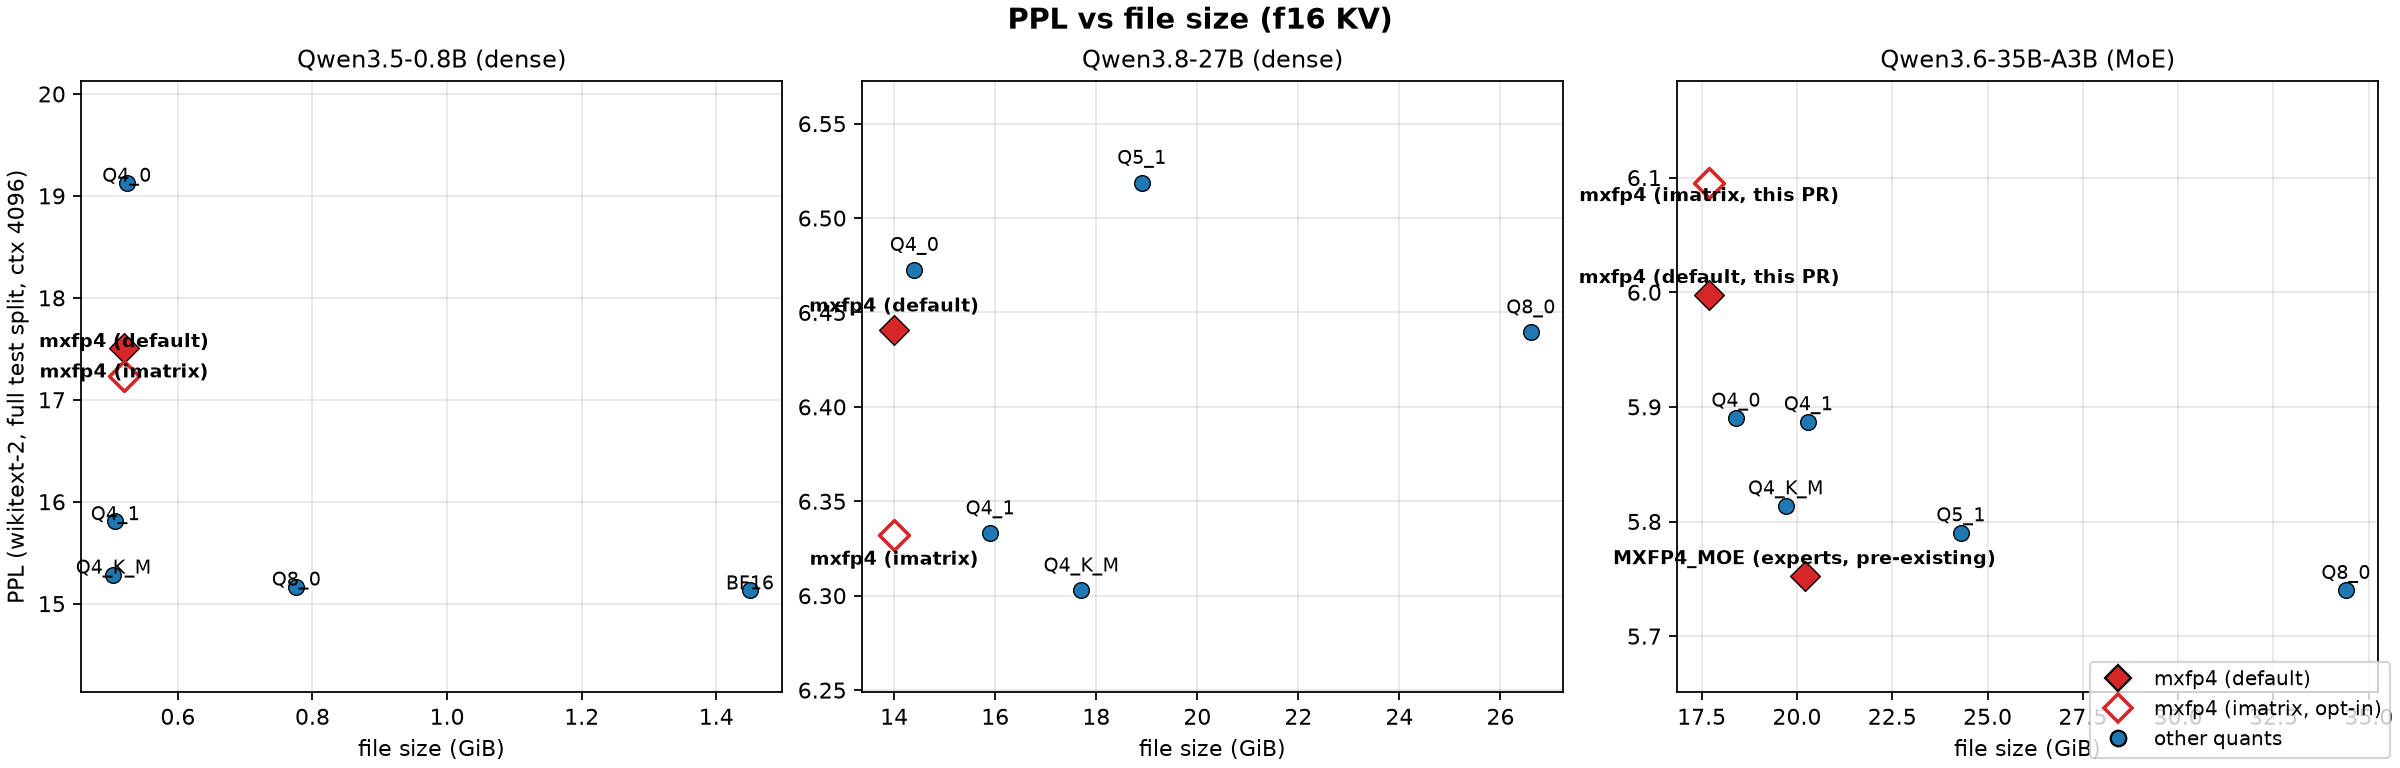
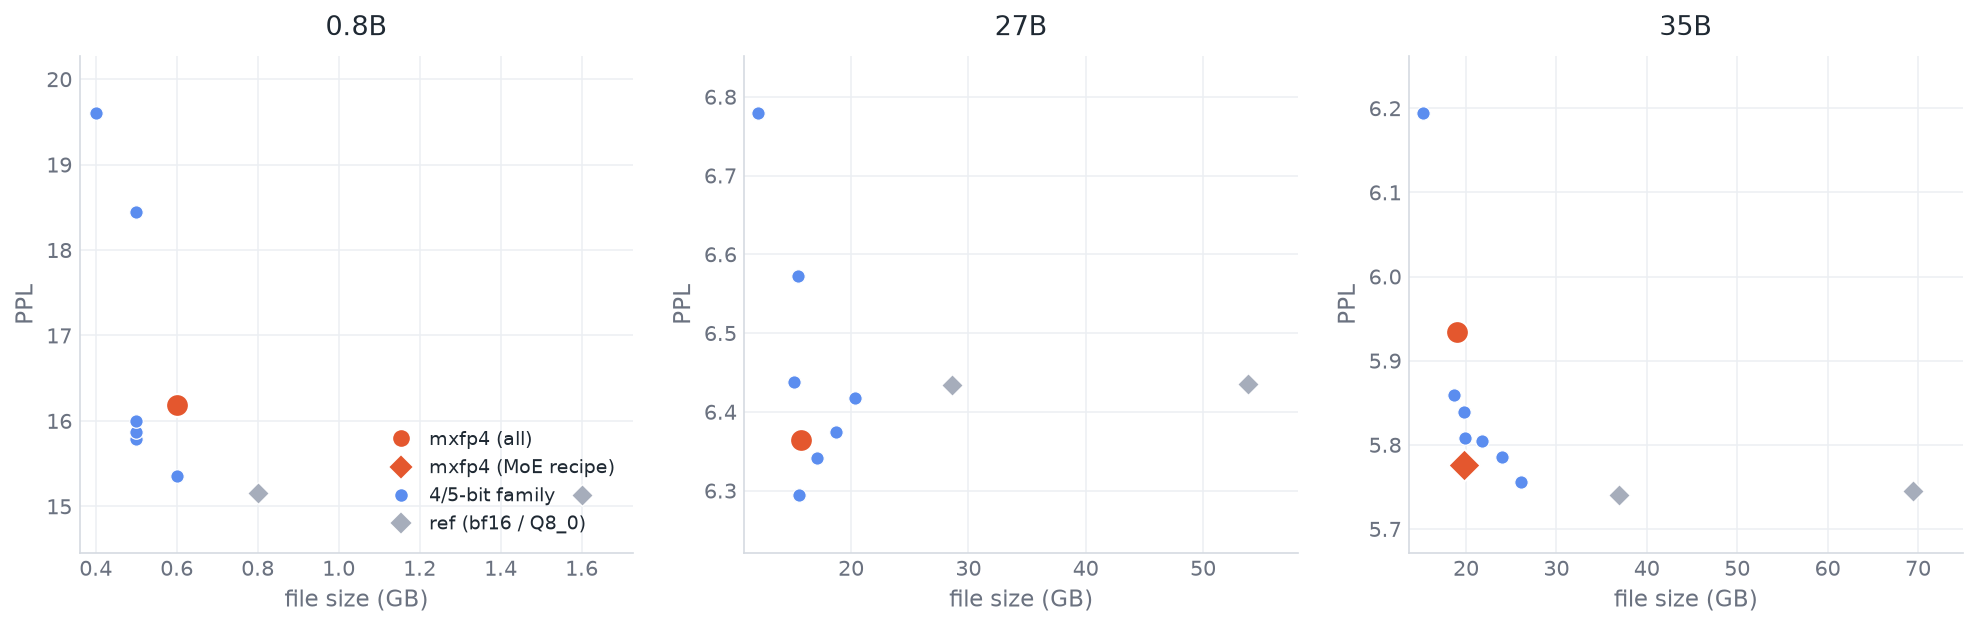
Replace PR charts with fresh-run figures; add generator, drop stale graphics
- add ppl-vs-size, kv-cache, kl-top-p (fresh full-imatrix run)
- regenerate ppl-vs-size
- add charts.py generator
- remove 18 stale figures (scale-selection, cross-quant-speed, kv-*, ctx-sweep, kld-*)

diff --git a/charts.py b/charts.py
@@ -1,0 +1,290 @@
+#!/usr/bin/env python3
+"""
+mxfp4 PR charts - single generator for all PR figures.
+
+One design language, shared by every chart:
+  - shared PALETTE (mxfp4 = accent, family = blue, refs = gray)
+  - shared figure/axis styling (new_figure / style_axes / save)
+  - minimal in-image text: small labels only; prose lives in the PR body
+Data is the fresh full-imatrix, all-chunks run (see mxfp4-imatrix-accuracy.md).
+"""
+import matplotlib
+matplotlib.use("Agg")
+import matplotlib.pyplot as plt
+from matplotlib.lines import Line2D
+import numpy as np
+import os
+
+OUT = os.path.dirname(os.path.abspath(__file__))
+
+# ------------------------------------------------------------------ design
+PALETTE = {
+    "accent":  "#E4572E",   # mxfp4 (the subject)
+    "family":  "#5B8DEF",   # 4/5-bit family
+    "ref":     "#A6ADBB",   # bf16 / Q8_0 references
+    "text":    "#1F2933",
+    "muted":   "#6B7280",
+    "grid":    "#ECEFF3",
+    "spine":   "#D5DAE1",
+    "bg":      "#FFFFFF",
+}
+FONT = {"family": "DejaVu Sans", "size": 12}
+
+plt.rcParams.update({
+    "font.family": FONT["family"],
+    "text.color": PALETTE["text"],
+    "axes.edgecolor": PALETTE["spine"],
+    "axes.labelcolor": PALETTE["text"],
+    "xtick.color": PALETTE["muted"],
+    "ytick.color": PALETTE["muted"],
+    "axes.grid": True,
+    "grid.color": PALETTE["grid"],
+    "grid.linewidth": 1.0,
+    "figure.facecolor": PALETTE["bg"],
+    "axes.facecolor": PALETTE["bg"],
+    "savefig.facecolor": PALETTE["bg"],
+    "svg.fonttype": "none",
+})
+
+
+def new_figure(nrows=1, ncols=1, w=6.0, h=4.4, sharey=False):
+    fig, axes = plt.subplots(nrows, ncols, figsize=(w * ncols, h * nrows), squeeze=False)
+    return fig, axes.flatten()
+
+
+def style_axes(ax, title=None, xlabel=None, ylabel=None, xlog=False):
+    for s in ("top", "right"):
+        ax.spines[s].set_visible(False)
+    ax.spines["left"].set_color(PALETTE["spine"])
+    ax.spines["bottom"].set_color(PALETTE["spine"])
+    ax.tick_params(length=0)
+    ax.grid(axis="both", linestyle="-", linewidth=0.8, alpha=0.9)
+    ax.set_axisbelow(True)
+    if title:
+        ax.set_title(title, fontsize=13, color=PALETTE["text"], pad=10)
+    if xlabel:
+        ax.set_xlabel(xlabel, fontsize=11, color=PALETTE["muted"])
+    if ylabel:
+        ax.set_ylabel(ylabel, fontsize=11, color=PALETTE["muted"])
+    if xlog:
+        ax.set_xscale("log")
+    return ax
+
+
+def legend_items(ax, items, **kw):
+    ax.legend(handles=items, **kw)
+
+
+def save(fig, name):
+    path = os.path.join(OUT, name)
+    fig.savefig(path, dpi=150, bbox_inches="tight")
+    plt.close(fig)
+    print("wrote", path)
+
+
+# ------------------------------------------------------------------ data
+# fresh full-imatrix, all-chunks. (type, size_GB, imx_ppl, no_imx_ppl or None, is_ref)
+PPL = {
+    "0.8B": [
+        ("bf16", 1.6, 15.129, None, True),
+        ("Q8_0", 0.8, 15.162, None, True),
+        ("q5_1", 0.6, 15.350, 15.204, False),
+        ("q4_1", 0.5, 15.786, 15.811, False),
+        ("iq4xs", 0.5, 15.870, 15.962, False),
+        ("q4ks", 0.5, 15.999, 15.811, False),
+        ("mxfp4", 0.6, 16.181, 17.489, False),
+        ("q4_0", 0.5, 18.444, 19.107, False),
+        ("q3ks", 0.4, 19.601, 21.516, False),
+    ],
+    "27B": [
+        ("q4ks", 15.6, 6.294, 6.326, False),
+        ("q4_1", 17.1, 6.342, 6.320, False),
+        ("mxfp4", 15.7, 6.364, 6.441, False),
+        ("q5ks", 18.7, 6.375, 6.495, False),
+        ("q5_1", 20.3, 6.417, 6.505, False),
+        ("Q8_0", 28.6, 6.434, None, True),
+        ("bf16", 53.8, 6.435, None, True),
+        ("iq4xs", 15.1, 6.438, 6.413, False),
+        ("q4_0", 15.5, 6.572, 6.475, False),
+        ("q3ks", 12.1, 6.779, 7.375, False),
+    ],
+    "35B": [
+        ("Q8_0", 36.9, 5.740, None, True),
+        ("bf16", 69.4, 5.745, None, True),
+        ("q5_1", 26.1, 5.756, 5.790, False),
+        ("q5ks", 24.0, 5.785, 5.834, False),
+        ("q4_1", 21.8, 5.804, 5.887, False),
+        ("q4ks", 19.9, 5.808, 5.825, False),
+        ("q4_0", 19.8, 5.839, 5.886, False),
+        ("iq4xs", 18.7, 5.859, 5.849, False),
+        ("mxfp4", 19.0, 5.934, 5.999, False),
+        ("mxfp4-moe", 19.8, 5.776, None, False),
+        ("q3ks", 15.2, 6.194, 6.525, False),
+    ],
+}
+
+
+def scatter_quant_points(ax, rows):
+    """Plot one model's quants: family (blue), mxfp4 (accent, larger), refs (gray, diamond)."""
+    fam_x, fam_y = [], []
+    acc_x, acc_y = [], []
+    moe_x, moe_y = [], []
+    ref_x, ref_y = [], []
+    for (name, size, imx, noimx, is_ref) in rows:
+        if is_ref:
+            ref_x.append(size); ref_y.append(imx)
+        elif name == "mxfp4":
+            acc_x.append(size); acc_y.append(imx)
+        elif name == "mxfp4-moe":
+            moe_x.append(size); moe_y.append(imx)
+        else:
+            fam_x.append(size); fam_y.append(imx)
+    ax.scatter(fam_x, fam_y, s=42, c=PALETTE["family"], zorder=3, edgecolors="white", linewidths=0.6)
+    ax.scatter(ref_x, ref_y, s=54, marker="D", c=PALETTE["ref"], zorder=3, edgecolors="white", linewidths=0.6)
+    ax.scatter(acc_x, acc_y, s=120, c=PALETTE["accent"], zorder=5, edgecolors="white", linewidths=1.0)
+    ax.scatter(moe_x, moe_y, s=120, marker="D", c=PALETTE["accent"], zorder=5, edgecolors="white", linewidths=1.0)
+    return [
+        Line2D([0], [0], marker="o", ls="", ms=9, mec="white", mfc=PALETTE["accent"], label="mxfp4 (all)"),
+        Line2D([0], [0], marker="D", ls="", ms=9, mec="white", mfc=PALETTE["accent"], label="mxfp4 (MoE recipe)"),
+        Line2D([0], [0], marker="o", ls="", ms=7, mec="white", mfc=PALETTE["family"], label="4/5-bit family"),
+        Line2D([0], [0], marker="D", ls="", ms=8, mec="white", mfc=PALETTE["ref"], label="ref (bf16 / Q8_0)"),
+    ]
+
+
+def ppl_vs_size():
+    fig, axgrid = new_figure(1, 3, w=5.4, h=4.3)
+    handles = None
+    for ax, (model, rows) in zip(axgrid, PPL.items()):
+        style_axes(ax, title=model, xlabel="file size (GB)", ylabel="PPL")
+        h = scatter_quant_points(ax, rows)
+        if handles is None:
+            handles = h
+        ax.set_xlim(min(r[1] for r in rows) * 0.9, max(r[1] for r in rows) * 1.08)
+        ymin, ymax = min(r[2] for r in rows), max(r[2] for r in rows)
+        pad = (ymax - ymin) * 0.15
+        ax.set_ylim(ymin - pad, ymax + pad)
+    legend_items(axgrid[0], handles, loc="lower right", frameon=False, fontsize=9,
+                             ncol=1, handlelength=1.4, borderaxespad=0.6)
+    save(fig, "ppl-vs-size.png")
+    return
+
+
+# ------------------------------------------------------------------ KV cache
+KV_TYPES = ["f16", "q4_0", "q4_1", "q5_1", "mxfp4"]
+KV = {
+    "0.8B": {"mem": {"f16": 1.14, "q4_0": 0.32, "q4_1": 0.36, "q5_1": 0.43, "mxfp4": 0.30},
+             "tg":  {"f16": 434.4, "q4_0": 411.2, "q4_1": 413.6, "q5_1": 414.7, "mxfp4": 412.9}},
+    "27B":  {"mem": {"f16": 6.10, "q4_0": 1.72, "q4_1": 1.91, "q5_1": 2.29, "mxfp4": 1.62},
+             "tg":  {"f16": 42.6, "q4_0": 42.1, "q4_1": 42.1, "q5_1": 42.1, "mxfp4": 42.2}},
+    "35B":  {"mem": {"f16": 1.91, "q4_0": 0.54, "q4_1": 0.60, "q5_1": 0.72, "mxfp4": 0.51},
+             "tg":  {"f16": 183.9, "q4_0": 178.7, "q4_1": 179.3, "q5_1": 179.1, "mxfp4": 179.1}},
+}
+
+def kv_color(t):
+    if t == "f16":
+        return PALETTE["ref"]
+    if t == "mxfp4":
+        return PALETTE["accent"]
+    return PALETTE["family"]
+
+def kv_cache():
+    fig, ax = new_figure(2, 3, w=5.0, h=3.5)
+    for col, (model, d) in enumerate(KV.items()):
+        axm = ax[col]
+        style_axes(axm, title=model, ylabel="KV mem (GiB @100k)" if col == 0 else None)
+        axm.bar(KV_TYPES, [d["mem"][t] for t in KV_TYPES], color=[kv_color(t) for t in KV_TYPES], width=0.72)
+        axt = ax[3 + col]
+        style_axes(axt, ylabel="decode (t/s)" if col == 0 else None)
+        axt.bar(KV_TYPES, [d["tg"][t] for t in KV_TYPES], color=[kv_color(t) for t in KV_TYPES], width=0.72)
+    save(fig, "kv-cache.png")
+
+# ------------------------------------------------------------------ KL + top-p
+# per quant: (imx_kld, imx_topp, plain_kld, plain_topp); q8 has no plain
+KL_ORDER = ["q8", "q5_1", "q5ks", "q4_1", "q4ks", "iq4xs", "mxfp4", "q4_0", "q3ks"]
+KL = {
+    "0.8B": {
+        "q8":    (0.001274, 98.029, None, None),
+        "q5_1":  (0.015941, 93.279, 0.025742, 91.611),
+        "q5ks":  (0.018677, 92.763, 0.026215, 91.246),
+        "q4_1":  (0.052838, 88.337, 0.093422, 84.593),
+        "q4ks":  (0.052137, 88.432, 0.076593, 86.340),
+        "iq4xs": (0.056000, 88.111, 0.069437, 86.883),
+        "mxfp4": (0.149358, 81.307, 0.187225, 78.825),
+        "q4_0":  (0.113817, 83.581, 0.143692, 81.412),
+        "q3ks":  (0.278512, 74.846, 0.376418, 71.496),
+    },
+    "27B": {
+        "q8":    (0.009147, 98.674, None, None),
+        "q5_1":  (0.025711, 96.304, 0.034100, 95.434),
+        "q5ks":  (0.026647, 96.077, 0.032669, 95.538),
+        "q4_1":  (0.044071, 94.225, 0.068571, 92.060),
+        "q4ks":  (0.046680, 93.995, 0.059856, 92.591),
+        "iq4xs": (0.039574, 94.317, 0.049913, 93.341),
+        "mxfp4": (0.089838, 90.217, 0.101166, 89.239),
+        "q4_0":  (0.058929, 92.702, 0.069682, 91.645),
+        "q3ks":  (0.114200, 87.891, 0.173826, 85.424),
+    },
+    "35B": {
+        "q8":    (0.005252, 97.400, None, None),
+        "q5_1":  (0.013733, 95.239, 0.020446, 94.306),
+        "q5ks":  (0.014901, 95.099, 0.021629, 94.104),
+        "q4_1":  (0.029135, 93.073, 0.052624, 90.574),
+        "q4ks":  (0.029115, 93.066, 0.043272, 91.421),
+        "iq4xs": (0.029952, 92.986, 0.038388, 91.981),
+        "mxfp4": (0.068176, 89.343, 0.087843, 87.920),
+        "q4_0":  (0.046439, 91.255, 0.055915, 90.307),
+        "q3ks":  (0.106026, 86.843, 0.151525, 84.141),
+    },
+}
+
+def _kl_color(q):
+    if q == "q8":
+        return PALETTE["ref"]
+    if q == "mxfp4":
+        return PALETTE["accent"]
+    return PALETTE["family"]
+
+def _plot_kl_panel(ax, d, key):
+    xs = list(range(len(KL_ORDER)))
+    imx_x, imx_y = [], []
+    pl_x, pl_y = [], []
+    cols = []
+    for i, q in enumerate(KL_ORDER):
+        ik, it, pk, pt = d[q]
+        yv = ik if key == "kld" else it
+        imx_x.append(i - 0.18); imx_y.append(yv); cols.append(_kl_color(q))
+        if pk is not None:
+            pl_x.append(i + 0.18); pl_y.append(pk if key == "kld" else pt)
+    ax.scatter(imx_x, imx_y, s=64, c=cols, zorder=5, edgecolors="white", linewidths=0.8)
+    if pl_x:
+        ax.scatter(pl_x, pl_y, s=64, facecolors="none", edgecolors=cols[:len(pl_x)], linewidths=1.4, zorder=4)
+    ax.set_xticks(xs); ax.set_xticklabels(KL_ORDER, fontsize=8)
+    ax.set_xlim(-0.6, len(KL_ORDER) - 0.4)
+    ys = imx_y + pl_y
+    ymin, ymax = min(ys), max(ys)
+    pad = (ymax - ymin) * 0.18
+    ax.set_ylim(ymin - pad, ymax + pad)
+
+def kl_top_p():
+    fig, ax = new_figure(2, 3, w=5.0, h=3.6)
+    for col, (model, d) in enumerate(KL.items()):
+        style_axes(ax[col], title=model, ylabel="Mean KLD (lower is better)")
+        _plot_kl_panel(ax[col], d, "kld")
+        style_axes(ax[3 + col], ylabel="Same top-p % (higher is better)")
+        _plot_kl_panel(ax[3 + col], d, "topp")
+    handles = [Line2D([0], [0], marker="o", ls="", ms=8, mec="white", mfc=PALETTE["accent"], label="imatrix"),
+               Line2D([0], [0], marker="o", ls="", ms=8, mfc="none", mec=PALETTE["family"], label="no imatrix"),
+               Line2D([0], [0], marker="o", ls="", ms=8, mec="white", mfc=PALETTE["ref"], label="ref (Q8_0)")]
+    legend_items(ax[0], handles, loc="upper right", frameon=False, fontsize=8, ncol=3,
+                             handlelength=1.2, columnspacing=0.8, borderaxespad=0.4)
+    save(fig, "kl-top-p.png")
+
+if __name__ == "__main__":
+    import sys
+    which = sys.argv[1] if len(sys.argv) > 1 else "all"
+    if which in ("all", "ppl"):
+        ppl_vs_size()
+    if which in ("all", "kv"):
+        kv_cache()
+    if which in ("all", "kl"):
+        kl_top_p()
